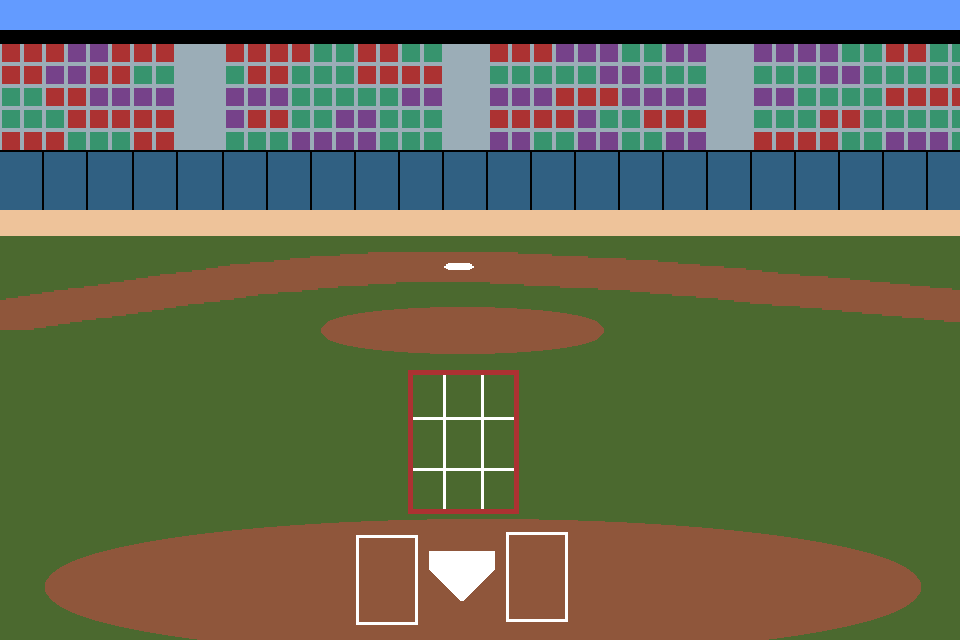
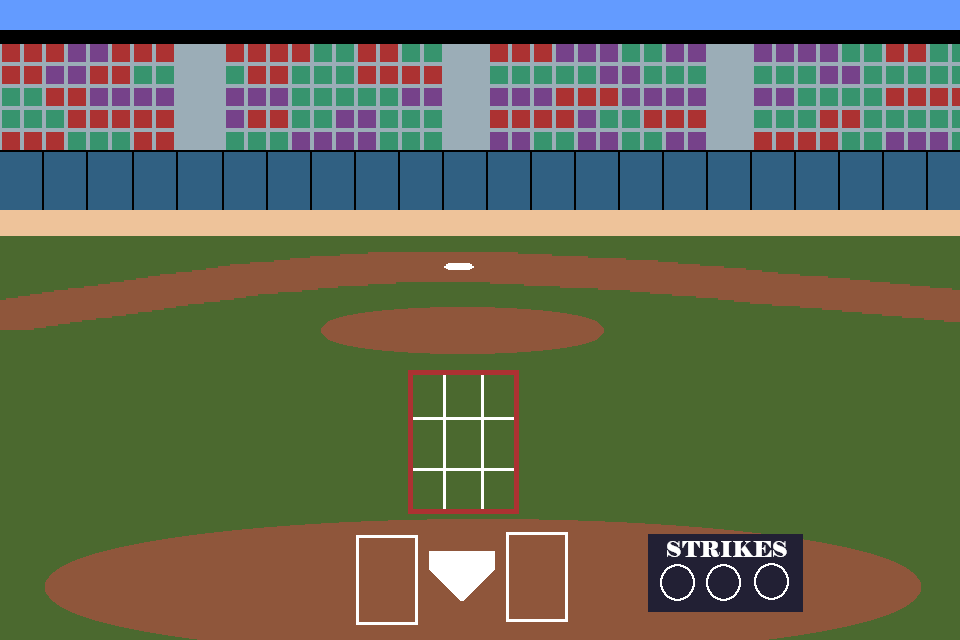
adding new background images and refactoring some logic

Changed region(s): [[0.6562, 0.8125, 0.8438, 0.9688]]

diff --git a/src/main.js b/src/main.js
@@ -1,3 +1,5 @@
+import { loadAssets, bgFrames, bat } from "./lib/assets.js";
+
 const canvas = document.querySelector("canvas");
 const ctx = canvas.getContext("2d");
 
@@ -6,15 +8,9 @@ canvas.height = window.innerHeight;
 
 let mouseX = 0;
 let mouseY = 0;
-let loaded = 0;
+let strikes = 0;
 
-const bg = new Image();
-bg.src = new URL('./assets/background.png', import.meta.url).href;
-bg.onload = () => { loaded++; if (loaded === 2) loop(); };
-
-const bat = new Image();
-bat.src = new URL('./assets/bat.png', import.meta.url).href;
-bat.onload = () => { loaded++; if (loaded === 2) loop(); };
+//TODO: perhaps squash or stretch the baseball based on power? ~asrael_io
 
 canvas.addEventListener('mousemove', (e) => {
     const rect = canvas.getBoundingClientRect();
@@ -22,14 +18,28 @@ canvas.addEventListener('mousemove', (e) => {
     mouseY = (e.clientY - rect.top) * (canvas.height / rect.height);
 });
 
+canvas.addEventListener('mousedown', () => {
+    strikes = Math.min(strikes + 1, 3);
+});
+
 window.addEventListener('resize', () => {
     canvas.width = window.innerWidth;
     canvas.height = window.innerHeight;
 });
 
-function loop() {
-    ctx.drawImage(bg, 0, 0, canvas.width, canvas.height);
+function drawBackground() {
+    ctx.drawImage(bgFrames[strikes], 0, 0, canvas.width, canvas.height);
+}
+
+function drawBat() {
     const batSize = canvas.width / 16;
     ctx.drawImage(bat, mouseX - batSize / 2, mouseY - batSize / 2, batSize, batSize);
-    requestAnimationFrame(loop);
 }
+
+function gameLoop() {
+    drawBackground();
+    drawBat();
+    requestAnimationFrame(gameLoop);
+}
+
+loadAssets().then(() => gameLoop());

diff --git a/src/lib/assets.js b/src/lib/assets.js
@@ -1,0 +1,19 @@
+export const bgFrames = [new Image(), new Image(), new Image(), new Image()];
+export const bat = new Image();
+
+const srcs = [
+    ['../assets/background.png', bgFrames[0]],
+    ['../assets/background-1.png', bgFrames[1]],
+    ['../assets/background-2.png', bgFrames[2]],
+    ['../assets/background-3.png', bgFrames[3]],
+    ['../assets/bat.png', bat]
+];
+
+export function loadAssets() {
+    return Promise.all(
+        srcs.map(([src, img]) => new Promise(resolve => {
+            img.src = new URL(src, import.meta.url).href;
+            img.onload = resolve;
+        }))
+    );
+}
